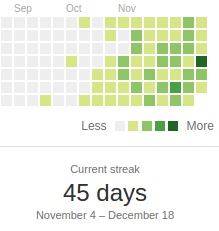
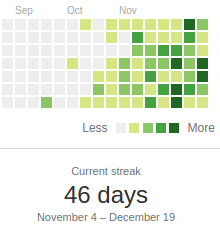
Finish monitoring report

diff --git a/monitoring_report/monitoring_report.tex b/monitoring_report/monitoring_report.tex
@@ -79,12 +79,12 @@ Since then, many other programming games have been created \cite{pg}. Some of th
 \textbf{SpaceChem} \cite{spacechem}.
 \subsection{Playing with other people}
 With the arrival of the \textbf{Internet} and the \textbf{W}orld \textbf{W}ide \textbf{W}eb, there was nothing stopping people from
-developing \textbf{multiplayer programming games}.
+developing web platforms for \textbf{multiplayer programming games}.
 
 A \textbf{multiplayer programming game} is a \textbf{programming game} where multiple players compete with each other to win the
 game. Thus, the game becomes a challenge where strategy and programming skills make the difference.
 
-Web platforms have been created that allow players to compete with each other easily. For example, \textbf{Robot Game}
+These web platforms allow players to compete with each other easily. For example, \textbf{Robot Game}
 \cite{robotgame} is a website where anyone can upload an \textbf{AI} written in \texttt{Python} and compete with other people.
 \subsection{Playing while learning}
 Writing \textbf{AI}s can be a really fun and rewarding experience because the game allows the players to see how their
@@ -99,18 +99,12 @@ However, current multiplayer programming games feature \textbf{short matches} wi
 is no way to perform a challenge with a considerable amount of students playing at the same time. Therefore, multiple
 matches are necessary to decide who wrote the best program.
 \subsection{A new era: playing with everyone at the same time}
-It is time to take multiplayer programming games to the next level, featuring \textbf{huge worlds}, \textbf{long matches} and
-a \textbf{massive amount of players in real-time}. Games where the player will feel attached to the match, where constant
-\textbf{evolution} and adaptation matters, where your program plays with everyone at the same time. It is time to create
-\textbf{massive multiplayer programming games} (\textbf{MMPG}s).
+Multiplayer programming games need to evolve. They need to feature \textbf{huge worlds}, \textbf{long matches} and
+a \textbf{massive amount of players in real-time}. Then, players will feel attached to the match, programs will need to
+\textbf{adapt} constantly as they play with \textbf{everyone at the same time}. It is time to take this genre to the next level and
+create \textbf{massive multiplayer programming games} (\textbf{MMPG}s).
 \clearpage
-\vspace*{\fill}
-\begin{center}
-\emph{This document details the current status of the project and the changes made to the original planning.}
-\end{center}
-\vfill
-\clearpage
-\section{Component status}
+\section{Project status}
 \label{components}
 \subsection{Engine}
 The \texttt{MMPG} \textbf{engine} is a library that implements basic features needed by any \texttt{MMPG}. The \textbf{engine} exposes a set
@@ -118,7 +112,7 @@ of classes that can be used and extended to build the logic of the game.
 
 Its source code is available here: \url{https://github.com/mmpg/engine}
 \subsubsection{Architecture}
-The runtime of an \texttt{}MMPG\texttt{} \textbf{engine} consists of 3 types of processes:
+The runtime of an \texttt{MMPG} \textbf{engine} consists of 3 types of processes:
 \begin{description}
 \item[Master process]
 It represents the \textbf{game-world server}. The master process listens to requests coming from
@@ -186,7 +180,7 @@ executed and communicate with each other using \textbf{sockets}. However, implem
 scratch would be a real challenge by itself, and it is not the subject of this project. This is where \textbf{\texttt{ZeroMQ}} comes
 in.
 
-\textbf{\texttt{ZeroMQ}} is an embeddable networking library that implements \textbf{low-latency socket communication}. It manages
+\textbf{\texttt{ZeroMQ}} \cite{zeromq} is an embeddable networking library that implements \textbf{low-latency socket communication}. It manages
 \textbf{low-level} communication, while providing a flexible and easy-to-use interface. \textbf{\texttt{ZeroMQ}} has bindings available
 for the most well-known programming languages.
 
@@ -374,12 +368,10 @@ Administrators will have access to a panel to \textbf{control the current match}
 \end{minipage}
 }
 \end{figure}
+\clearpage
 \section{Planning}
 \subsection{Time management}
-\autoref{gantt_original} shows the original time planning, while \autoref{gantt_current} shows the final time
-planning.
-
-\begin{figure}[!h]
+\begin{figure}[H]
 \makebox[\textwidth]{
 \noindent\resizebox{300pt}{!}{
 \begin{ganttchart}[hgrid, vgrid]{1}{25}
@@ -429,7 +421,7 @@ planning.
 \caption{Original time planning}
 \label{gantt_original}
 \end{figure}
-\begin{figure}[!h]
+\begin{figure}[H]
 \makebox[\textwidth]{
 \noindent\resizebox{300pt}{!}{
 \begin{ganttchart}[hgrid, vgrid]{1}{25}
@@ -476,24 +468,60 @@ planning.
 \caption{Final time planning}
 \label{gantt_current}
 \end{figure}
-The first change to notice is that some components have been \textbf{renamed} and he control panel has been
+\autoref{gantt_original} shows the \textbf{original time planning}, while \autoref{gantt_current} shows the \textbf{final time
+planning}.
+
+The first change to notice is that some components have been \textbf{renamed} and the control panel has been
 \textbf{integrated} inside the game viewer, as described in \autoref{components}.
 
-The most important change, though, is that the components \textbf{engine}, \textbf{API}, and \textbf{client} have been developed
+The most important change, though, is that the components: \textbf{engine}, \textbf{API}, and \textbf{client} have been developed
 in parallel in order to perform \textbf{continuous integration} so there is always a working prototype of the project.
 This change is described with more detail in \autoref{methodology}.
 \subsection{Dedication}
+\autoref{dedication} shows the \textbf{relative amount of contributions per day} to this project.
 \begin{figure}[H]
 \makebox[\textwidth]{
-\includegraphics[scale=0.5]{images/dedication.png}
+\includegraphics[scale=0.6]{images/dedication.png}
 }
-\caption{GitHub contributions to the \texttt{MMPG} project}
+\caption{GitHub contributions to the \texttt{MMPG} project \url{https://github.com/hecrj}}
 \label{dedication}
 \end{figure}
+As it can be observed, there is \textbf{at least one contribution per day since November 4}. However, while dedication has
+been constant, there are many days where \textbf{contributions were minimal}. Hence, \textbf{dedication and productivity are expected
+to increase} during the incoming holidays.
 \clearpage
 \section{Methodology}
 \label{methodology}
-CI
+The \textbf{validation methodology} has changed slightly in order to give priority to \textbf{integration testing}, given that
+the platform is made of \textbf{multiple independent components}.
+
+When a change is made to any component while using \textbf{continuous integration}, the change is automatically applied to
+the \textbf{latest working prototype}. Therefore, breaking changes can be easily detected. Also, when using  \textbf{continuous
+integration} there is always an \textbf{up-to-date} working prototype of the platform that can be shown to anyone.
+
+To set it up, a \href{http://linode.com/}{\textbf{Linode}} running \texttt{Ubuntu} was booted up to execute an instance of
+\textbf{Space Wars}. Then, \href{http://semaphoreci.com/}{\textbf{Semaphore}} was configured to build any change in the
+repositories. If a build succeeds, then \textbf{Semaphore} deploys the changes to the \textbf{Linode}, where the changes will
+be applied. \autoref{build_process} shows the build process of the \textbf{Space Wars} engine, while
+\autoref{deployment_process} shows its deployment process.
+
+Changes are pushed to the \textbf{Linode} using \textbf{bare \texttt{git} repositories} and \textbf{script hooks}. Basically,
+when some changes are pushed to the repository, a script is executed that \textbf{builds and restarts the component}.
+These scripts are located in the \textbf{repository itself}, so they can be updated easily.
+\begin{figure}[H]
+\noindent\resizebox{\textwidth}{!}{
+\includegraphics{images/build_process.png}
+}
+\caption{Semaphore build process}
+\label{build_process}
+\end{figure}
+\begin{figure}[H]
+\noindent\resizebox{\textwidth}{!}{
+\includegraphics{images/deployment_process.png}
+}
+\caption{Semaphore deployment process}
+\label{deployment_process}
+\end{figure}
 \clearpage
 \bibliographystyle{plain}
 \bibliography{references}
